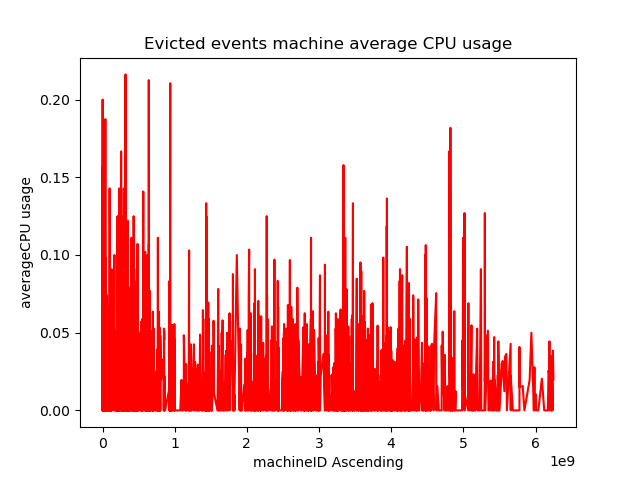
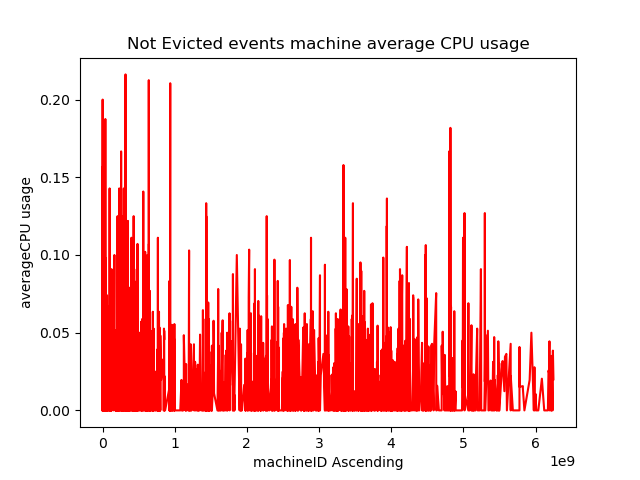
question7NotEvicted

Changed region(s): [[0.1875, 0.0625, 0.8438, 0.125]]

diff --git a/question7_notEvicted.py b/question7_notEvicted.py
@@ -128,7 +128,7 @@ machine_id, average_evict_CPURATE = zip(*step2)
 plt.plot(machine_id, average_evict_CPURATE, marker='', color='r', ls='-')
 plt.xlabel('machineID Ascending')
 plt.ylabel('averageCPU usage')
-plt.title('Evicted events machine average CPU usage')
+plt.title('Not Evicted events machine average CPU usage')
 plt.savefig("./results/question7/averageCPU_NonEvictMachines.png")
 plt.show()
 
